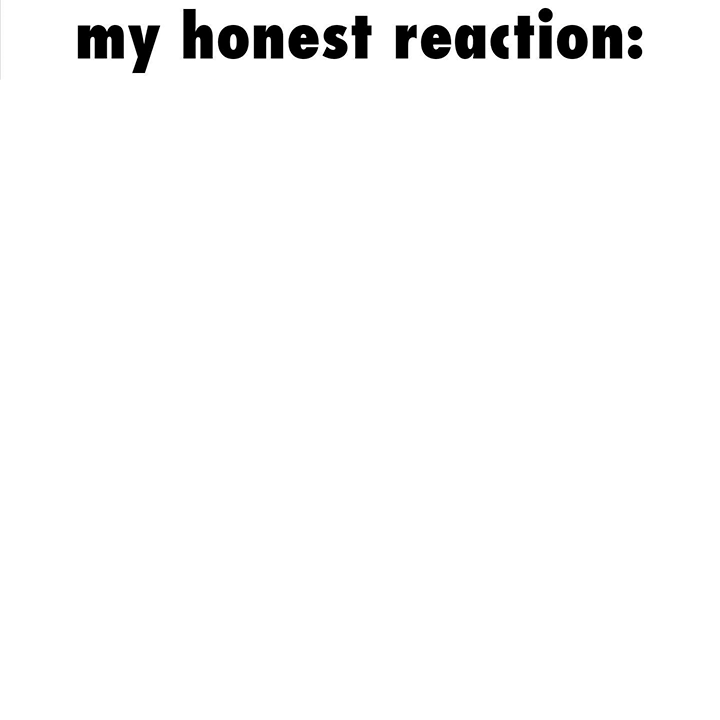
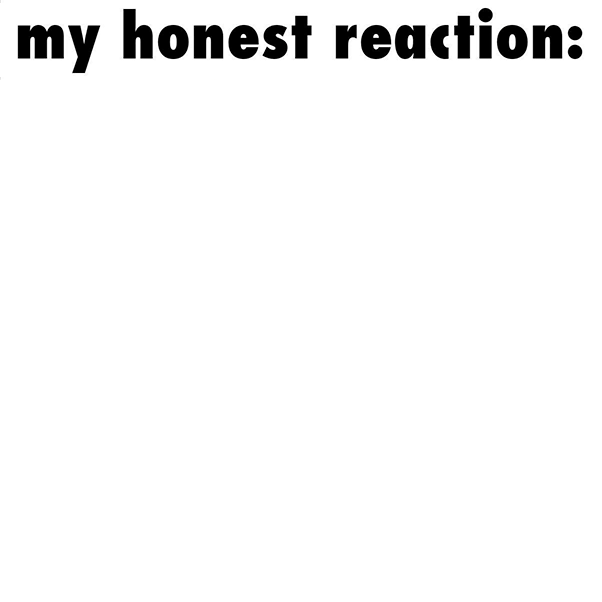
fixes

Changed region(s): [[0.0299, 0.0, 0.9867, 0.1196]]

diff --git a/pfpimgen/pfpimgen.py b/pfpimgen/pfpimgen.py
@@ -1476,11 +1476,11 @@ class PfpImgen(commands.Cog):
         return _file
 
     def gen_mhr(self, ctx, member_avatar):
-        member_avatar = self.bytes_to_image(member_avatar, 640)
+        member_avatar = self.bytes_to_image(member_avatar, 522)
 
         # member_avatar = member_avatar.rotate(330, Image.NEAREST, expand=1)
         # base canvas
-        im = Image.new("RGBA", (720, 720), None)
+        im = Image.new("RGBA", (602, 602), None)
         mhrmask = Image.open(f"{bundled_data_path(self)}/mhr/mhr_mask.png", mode="r").convert(
             "RGBA"
         )
